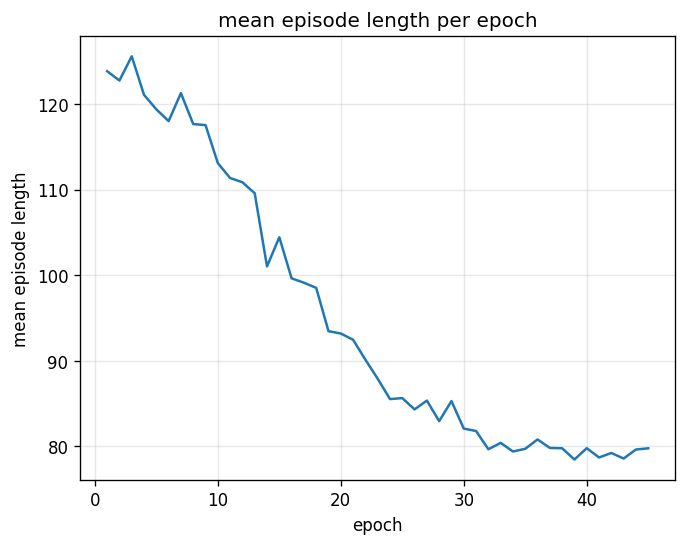
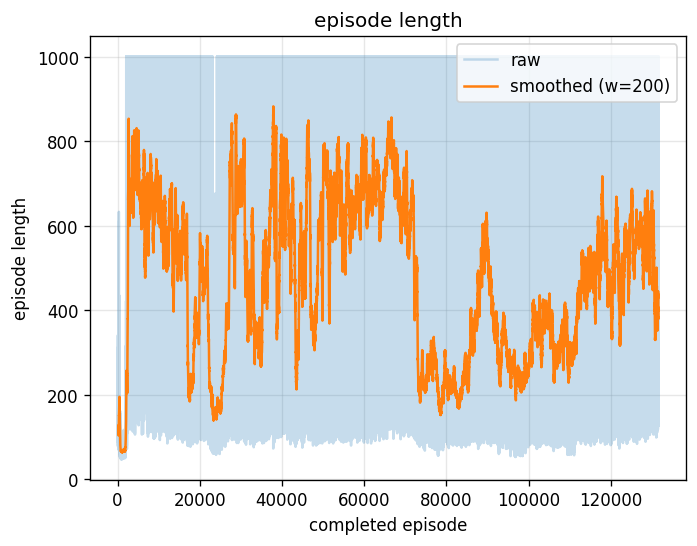
gae

diff --git a/main.py b/main.py
@@ -15,7 +15,7 @@ FIGURES_DIR = "figures"
 ENV_ID = "LunarLander-v3"
 ENV_KWARGS = dict(
     continuous=True,
-    gravity=-8.0,
+    gravity=-9.8,
     enable_wind=False,
     wind_power=15.0,
     turbulence_power=1.5,
@@ -25,8 +25,8 @@ class Policy(nn.Module):
     def __init__(self, obs_dims, act_dims):
         super().__init__()
         self.base = nn.Sequential(
-            nn.Linear(obs_dims, 64), nn.Tanh(),
-            nn.Linear(64, 64), nn.Tanh(),
+            nn.Linear(obs_dims, 64), nn.LayerNorm(64), nn.Tanh(),
+            nn.Linear(64, 64), nn.LayerNorm(64), nn.Tanh(),
         )
         self.mean_head = nn.Linear(64, act_dims)
         self.log_stds = nn.Parameter(torch.zeros(act_dims))
@@ -52,31 +52,18 @@ class Critic(nn.Module):
     def __init__(self, obs_dims):
         super().__init__()
         self.net = nn.Sequential(
-            nn.Linear(obs_dims, 64), nn.GELU(),
-            nn.Linear(64, 64), nn.GELU(),
+            nn.Linear(obs_dims, 64), nn.LayerNorm(64), nn.GELU(),
+            nn.Linear(64, 64), nn.LayerNorm(64), nn.GELU(),
             nn.Linear(64, 1),
         )
     
     def forward(self, obs):
         return self.net(obs).squeeze(-1)
 
-def reward_to_go(rews, dones, gamma):
-    # rews, dones: (T, num_envs). dones[t, i] = True iff env i terminated at step t.
-    # Returns discounted reward-to-go with the same shape, reset at episode boundaries.
-    rews = np.asarray(rews, dtype=np.float32)
-    dones = np.asarray(dones, dtype=np.float32)
-    out = np.empty_like(rews)
-    running = np.zeros(rews.shape[1:], dtype=np.float32)
-    for t in range(rews.shape[0] - 1, -1, -1):
-        running = rews[t] + gamma * running * (1.0 - dones[t])
-        out[t] = running
-    return out
-
-
-def train(lr=1e-3, batches=100000, batch_step=10, gamma=0.985, entropy_coef=0.001, render=False):
+def train(lr=3e-3, batches=100000, batch_step=25, gamma=0.985, entropy_coef=0.001, render=False, lam=0.95):
     envs = gym.make_vec(ENV_ID,
-                           num_envs = 15,
-                           vectorization_mode="async",
+                           num_envs = 25,
+                           vectorization_mode="sync",
                            **ENV_KWARGS)
     demo_env = gym.make(ENV_ID, render_mode="human", **ENV_KWARGS) if render else None
 
@@ -87,6 +74,18 @@ def train(lr=1e-3, batches=100000, batch_step=10, gamma=0.985, entropy_coef=0.00
     critic = Critic(obs_dim)
     actor_optimizer = Adam(model.parameters(), lr=lr)
     critic_optimizer = Adam(critic.parameters(), lr=lr)
+
+    def gae(rews, dones, values, gamma, l): #l is lambda
+        rews = np.asarray(rews, dtype=np.float32)
+        dones = np.asarray(dones, dtype=np.float32)
+        advantages = np.empty_like(rews)
+        running = np.zeros(rews.shape[1:], dtype=np.float32)
+        for t in range(rews.shape[0] - 1, -1, -1):
+            nonterminal = (1.0 - dones[t])
+            deltas = rews[t] - values[t] + gamma * values[t+1] * nonterminal
+            running = deltas + gamma * l * running * nonterminal
+            advantages[t] = running
+        return advantages
 
     def run_demo_episode():
         obs, _ = demo_env.reset()
@@ -130,14 +129,21 @@ def train(lr=1e-3, batches=100000, batch_step=10, gamma=0.985, entropy_coef=0.00
             ep_ret_running[done] = 0.0
             ep_len_running[done] = 0
 
-        rtg = reward_to_go(rew_buf, done_buf, gamma)               # (T, N)
-        returns = torch.as_tensor(rtg.reshape(-1), dtype=torch.float32)  # (T*N,)
-
         flat_obs = torch.as_tensor(obs_buf.reshape(T * N, obs_dim), dtype=torch.float32)
         values = critic(flat_obs)                                  # (T*N,) with grad
 
-        advantage = (returns - values).detach()
-        advantage = (advantage - advantage.mean()) / (advantage.std() + 1e-8)
+        # bootstrap V(s_T) on the obs returned after the last step, then build (T+1, N) for GAE
+        last_values = critic(torch.as_tensor(obs, dtype=torch.float32))       # (N,)
+        values_for_gae = np.concatenate([
+            values.detach().numpy().reshape(T, N),
+            last_values.detach().numpy()[None, :],
+        ], axis=0)                                                 # (T+1, N)
+
+        advantage_np = gae(rew_buf, done_buf, values_for_gae, gamma, lam)     # (T, N)
+        advantage_raw = torch.as_tensor(advantage_np.reshape(-1), dtype=torch.float32)
+        returns = advantage_raw + values.detach()                  # TD(λ) returns as critic target
+
+        advantage = (advantage_raw - advantage_raw.mean()) / (advantage_raw.std() + 1e-8)
 
         log_probs = torch.stack(logp_buf).reshape(-1)              # (T*N,)
         entropies = torch.stack(ent_buf).reshape(-1)               # (T*N,)
